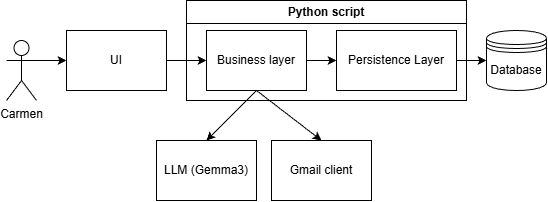
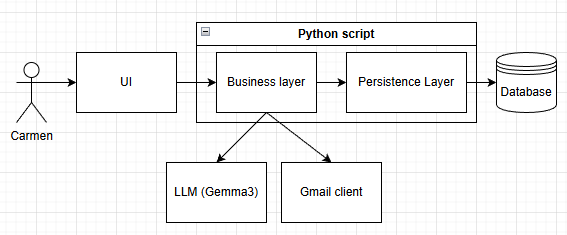
updated readme and diagrams

Changed region(s): [[0.0, 0.0, 1.0, 1.0], [0.1861, 0.2673, 0.2482, 0.3861], [0.1241, 0.1485, 0.3102, 0.1782]]

diff --git a/README.md b/README.md
@@ -6,11 +6,19 @@ using ollama.
 This script when run, uses the data stored in the database to construct and email a completed
 orders pdf to email provided in the main function. The script takes into account the enrolments in a specific session, absences on the given day, students who opted out of catering, dietary tags and extra dietary requirements and manager feedback. The cost is also estimated under the assumption that each session will ask the caterer to make one trip with only one stop being the session itself.
 
+![Sequence diagram](diagrams/sequence.png)
+
 ## System Architecture
 The diagram below describes the intended system architecture. The idea is the system can be run by Carmen when required, drawing on all stored data. For this project, the UI layer has been disregarded as it is a relatively unimportant part of the system functionality wise and can be interchanged very easily.
 
+![System architecture](diagrams/architecture.png)
+
 ## Database
 The diagrams below describe the conceptual and tabular schema for the database. The MOQ data has been left off due to time constraints and AI-generated manager feedback has been used to fill in the feedback table.
+
+![Conceptual schema](diagrams/Conceptual.png)
+
+![Tabular schema](diagrams/tabular.png)
 
 
 ## LLM usage